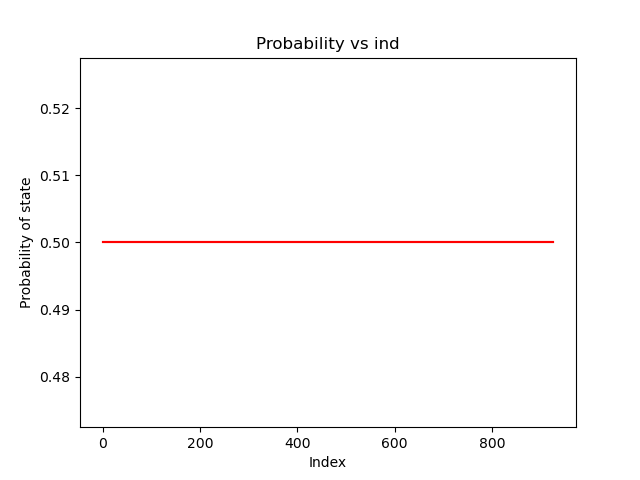
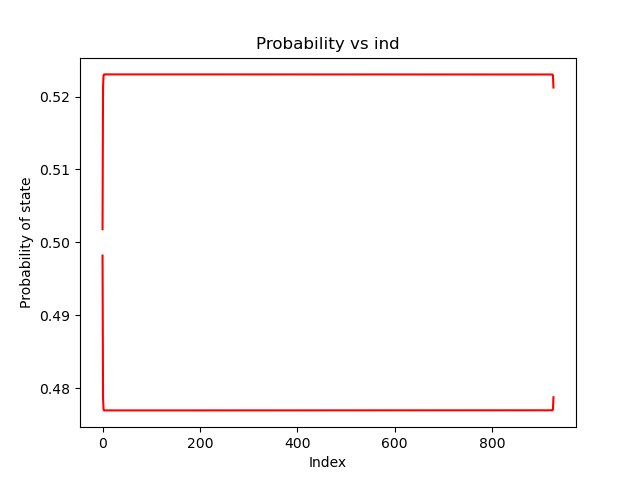
small fixes

diff --git a/parameters.py b/parameters.py
@@ -135,13 +135,9 @@ def forward_backward(obs, trans_probs, init_probs, trees):
     likelihood_b = logsumexp([p + i + e[0] for p, i, e in zip(B[:, 0], init_probs, trees)])
 
     # Calculate posterior probabilities
-    pzi_x = []
-    for i in range(m):
-        pzi_x.append(logsumexp([F[j, i] + B[j, i] for j in range(n)]))
-
+    pzi_x = np.array([logsumexp([F[j, i] + B[j, i] for j in range(n)]) for i in range(m)])
     for j in range(m):
-        for i in range(n):
-            R[i, j] = (F[i, j] + B[i, j]) - pzi_x[j]
+        R[:, j] = (F[:, j] + B[:, j]) - pzi_x[j]
 
     return F, likelihood_f, B, likelihood_b, np.exp(R)
 
@@ -245,7 +241,7 @@ def main():
         "hmm-sequence.fa",
         "test.fa"
     ]))
-
+    print(args.mul)
     trees = np.array([cons, non_cons])
 
     init, trans = optimize(data_len, trees)
@@ -253,8 +249,6 @@ def main():
     print(trans)
     F, l_f, B, l_b, R = forward_backward(data_len, trans, init, trees)
     saveplot(R, args.mul)
-    print(F)
-    print(B)
 
 
 if __name__ == "__main__":

diff --git a/tree.py b/tree.py
@@ -31,7 +31,7 @@ ordering = [leaves[0], leaves[3], hum_dog, leaves[1], leaves[2], mouse_rat, root
                     output = ""
                 curr = l[2:].strip()
             else:
-                output += l.strip()
+                output += l.strip().upper()
         sequences[curr] = output
     return sequences, size
 
